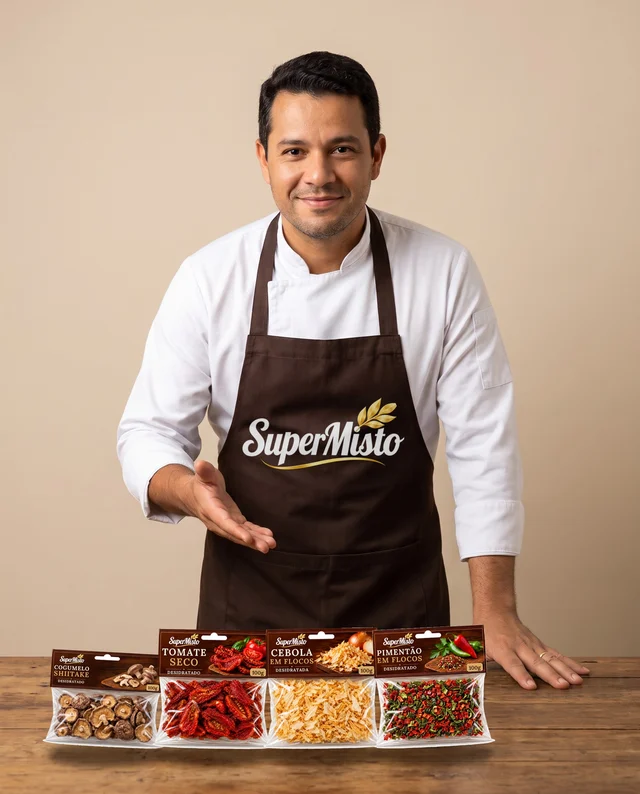
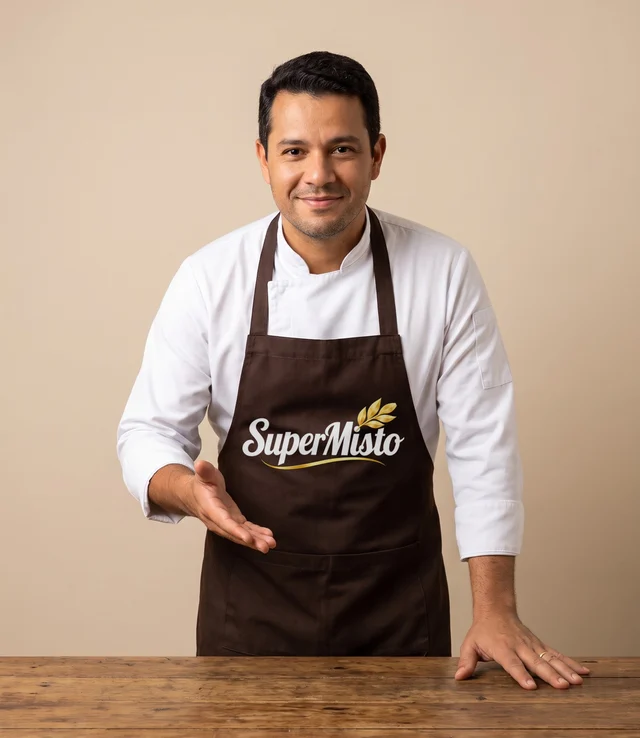
Supermisto: chef sem os pacotes na mesa
Claude-Session: https://claude.ai/code/session_015ccz1f9mAXaDEEyUCv6yYh

diff --git a/SITE-SUPERMISTO/site.js b/SITE-SUPERMISTO/site.js
@@ -44,7 +44,7 @@ function tamFoto(p) {
   return todos.filter((t, i) => (i === 0 && p.foto) || f[t]).sort((x, y) => ordemTam(x) - ordemTam(y));
 }
 function fotoUrl(p, peso) {
-  if (FOTOS_PESO[p.id]) return `img/produtos/${p.id}-${peso.replace(' ', '')}.webp?v=91`;
+  if (FOTOS_PESO[p.id]) return `img/produtos/${p.id}-${peso.replace(' ', '')}.webp?v=92`;
   const todos = p.tamAll || p.tam || [];
   return (p.fotosPeso && p.fotosPeso[peso]) || (peso === todos[0] ? p.foto : '') || p.foto;
 }
@@ -54,8 +54,8 @@ const CAPAS_LINHA = ['chas', 'puros', 'inteiros', 'misturas', 'desidratados'];
 // foto do quadradinho e capa larga de cada linha: a enviada pelo app (Meu site) vale mais que a do site
 const NOME_IMG = (id) => (id === 'desidratados' ? 'cogumelos-linha' : id);
 const EXT_IMG = (id) => (id === 'desidratados' ? 'jpg' : 'webp');
-const fotoLinha = (l) => l.foto || (FOTOS_LINHA.includes(l.id) ? `img/linhas/${NOME_IMG(l.id)}.${EXT_IMG(l.id)}?v=91` : '');
-const capaLinha = (l) => l.capa || (CAPAS_LINHA.includes(l.id) ? `img/linhas/${NOME_IMG(l.id)}-capa.${EXT_IMG(l.id)}?v=91` : '');
+const fotoLinha = (l) => l.foto || (FOTOS_LINHA.includes(l.id) ? `img/linhas/${NOME_IMG(l.id)}.${EXT_IMG(l.id)}?v=92` : '');
+const capaLinha = (l) => l.capa || (CAPAS_LINHA.includes(l.id) ? `img/linhas/${NOME_IMG(l.id)}-capa.${EXT_IMG(l.id)}?v=92` : '');
 const slug = (n) => n.toLowerCase().normalize('NFD').replace(/[\u0300-\u036f]/g, '').replace(/[^a-z0-9]+/g, '-').replace(/^-|-$/g, '');
 // cada produto tem um id fixo (o slug do nome original): o nome pode ser trocado pelo app sem perder a foto
 PRODUTOS.forEach((p) => { p.id = p.id || slug(p.nome); });
@@ -163,7 +163,7 @@ function inicio() {
   const pegar = (nome) => PRODUTOS.find((p) => p.nome === nome);
   // produtos com foto real entram como recorte (sem fundo); os outros com a embalagem desenhada
   const vit = (n) => FOTOS.has(slug(n)) ? `<img src="img/produtos/${slug(n)}-recorte.png" alt="${n} Supermisto">` : embalagem(pegar(n), pegar(n).tam[1] || pegar(n).tam[0]);
-  $('#vitrine').innerHTML = '<img class="chef" src="img/chef-supermisto.webp?v=91" srcset="img/chef-supermisto-640.webp?v=91 640w, img/chef-supermisto.webp?v=91 1000w" sizes="(max-width:860px) 92vw, 460px" width="1000" height="1241" alt="Chef Supermisto apresentando os temperos desidratados">';
+  $('#vitrine').innerHTML = '<img class="chef" src="img/chef-supermisto.webp?v=92" srcset="img/chef-supermisto-640.webp?v=92 640w, img/chef-supermisto.webp?v=92 1000w" sizes="(max-width:860px) 92vw, 460px" width="1000" height="1159" alt="Chef Supermisto apresentando os temperos desidratados">';
   // só aparecem as linhas que já têm produto com foto (as outras entram quando a arte chegar)
   const linhasOk = LINHAS.filter((l) => PRODUTOS.some((p) => p.linha === l.id && temFoto(p)));
   $('#num-prod').textContent = PRODUTOS.filter(temFoto).length; $('#num-linhas').textContent = linhasOk.length;

diff --git a/SITE-SUPERMISTO/404.html b/SITE-SUPERMISTO/404.html
@@ -13,14 +13,14 @@
 <link rel="icon" href="img/icone-192.png">
 <link rel="preconnect" href="https://fonts.googleapis.com">
 <link href="https://fonts.googleapis.com/css2?family=Inter:wght@400;500;600;700&family=Poppins:ital,wght@0,600;0,700;0,800;1,800&display=swap" rel="stylesheet">
-<link rel="stylesheet" href="estilo.css?v=91">
+<link rel="stylesheet" href="estilo.css?v=92">
 <script type="application/ld+json">{"@context":"https://schema.org","@type":"Organization","name":"Supermisto Temperos","legalName":"SUPER MISTO TEMPEROS LTDA","taxID":"13.580.397/0001-80","url":"https://www.supermistotemperos.com.br/","logo":"https://www.supermistotemperos.com.br/img/logo-supermisto.png","email":"contato@supermistotemperos.com.br","telephone":"+55-24-99872-1557","address":{"@type":"PostalAddress","streetAddress":"Estrada de Xerém, 484","addressLocality":"Duque de Caxias","addressRegion":"RJ","postalCode":"25241-390","addressCountry":"BR"}}</script>
 </head>
 <body>
 
 <header class="topo" id="topo">
   <div class="caixa topo-in">
-    <a href="index.html" class="marca" aria-label="Supermisto Temperos, início"><img src="img/logo-supermisto.png?v=91" alt="Supermisto Temperos" width="1029" height="507"></a>
+    <a href="index.html" class="marca" aria-label="Supermisto Temperos, início"><img src="img/logo-supermisto.png?v=92" alt="Supermisto Temperos" width="1029" height="507"></a>
     <nav class="menu" id="menu">
       <a href="catalogo.html">Produtos</a>
       <a href="receitas.html">Receitas</a>
@@ -35,7 +35,7 @@
 
 <main>
 <a class="banner-topo" href="catalogo.html" aria-label="Ver os temperos Supermisto">
-  <img src="img/banner-larga.webp?v=91" srcset="img/banner-larga-960.webp?v=91 960w, img/banner-larga-1280.webp?v=91 1280w, img/banner-larga.webp?v=91 1920w" sizes="100vw" width="1920" height="720" alt="Supermisto: sabor e qualidade em cada receita. Molhos de pimenta, shoyu e alho, temperos e doces Supermisto." fetchpriority="high">
+  <img src="img/banner-larga.webp?v=92" srcset="img/banner-larga-960.webp?v=92 960w, img/banner-larga-1280.webp?v=92 1280w, img/banner-larga.webp?v=92 1920w" sizes="100vw" width="1920" height="720" alt="Supermisto: sabor e qualidade em cada receita. Molhos de pimenta, shoyu e alho, temperos e doces Supermisto." fetchpriority="high">
 </a>
 <section class="hero" id="inicio">
   
@@ -159,8 +159,8 @@
 <footer class="rodape" id="rodape"></footer>
 <a class="whats-flutua" data-whats="Olá! Vim pelo site da Supermisto." aria-label="WhatsApp"></a>
 
-<script src="produtos.js?v=91"></script>
-<script src="receitas.js?v=91"></script>
-<script src="site.js?v=91"></script>
+<script src="produtos.js?v=92"></script>
+<script src="receitas.js?v=92"></script>
+<script src="site.js?v=92"></script>
 </body>
 </html>

diff --git a/SITE-SUPERMISTO/index.html b/SITE-SUPERMISTO/index.html
@@ -13,14 +13,14 @@
 <link rel="icon" href="img/icone-192.png">
 <link rel="preconnect" href="https://fonts.googleapis.com">
 <link href="https://fonts.googleapis.com/css2?family=Inter:wght@400;500;600;700&family=Poppins:ital,wght@0,600;0,700;0,800;1,800&display=swap" rel="stylesheet">
-<link rel="stylesheet" href="estilo.css?v=91">
+<link rel="stylesheet" href="estilo.css?v=92">
 <script type="application/ld+json">{"@context":"https://schema.org","@type":"Organization","name":"Supermisto Temperos","legalName":"SUPER MISTO TEMPEROS LTDA","taxID":"13.580.397/0001-80","url":"https://www.supermistotemperos.com.br/","logo":"https://www.supermistotemperos.com.br/img/logo-supermisto.png","email":"contato@supermistotemperos.com.br","telephone":"+55-24-99872-1557","address":{"@type":"PostalAddress","streetAddress":"Estrada de Xerém, 484","addressLocality":"Duque de Caxias","addressRegion":"RJ","postalCode":"25241-390","addressCountry":"BR"}}</script>
 </head>
 <body>
 
 <header class="topo" id="topo">
   <div class="caixa topo-in">
-    <a href="index.html" class="marca" aria-label="Supermisto Temperos, início"><img src="img/logo-supermisto.png?v=91" alt="Supermisto Temperos" width="1029" height="507"></a>
+    <a href="index.html" class="marca" aria-label="Supermisto Temperos, início"><img src="img/logo-supermisto.png?v=92" alt="Supermisto Temperos" width="1029" height="507"></a>
     <nav class="menu" id="menu">
       <a href="catalogo.html">Produtos</a>
       <a href="receitas.html">Receitas</a>
@@ -35,7 +35,7 @@
 
 <main>
 <a class="banner-topo" href="catalogo.html" aria-label="Ver os temperos Supermisto">
-  <img src="img/banner-larga.webp?v=91" srcset="img/banner-larga-960.webp?v=91 960w, img/banner-larga-1280.webp?v=91 1280w, img/banner-larga.webp?v=91 1920w" sizes="100vw" width="1920" height="720" alt="Supermisto: sabor e qualidade em cada receita. Molhos de pimenta, shoyu e alho, temperos e doces Supermisto." fetchpriority="high">
+  <img src="img/banner-larga.webp?v=92" srcset="img/banner-larga-960.webp?v=92 960w, img/banner-larga-1280.webp?v=92 1280w, img/banner-larga.webp?v=92 1920w" sizes="100vw" width="1920" height="720" alt="Supermisto: sabor e qualidade em cada receita. Molhos de pimenta, shoyu e alho, temperos e doces Supermisto." fetchpriority="high">
 </a>
 <section class="hero" id="inicio">
   
@@ -159,8 +159,8 @@
 <footer class="rodape" id="rodape"></footer>
 <a class="whats-flutua" data-whats="Olá! Vim pelo site da Supermisto." aria-label="WhatsApp"></a>
 
-<script src="produtos.js?v=91"></script>
-<script src="receitas.js?v=91"></script>
-<script src="site.js?v=91"></script>
+<script src="produtos.js?v=92"></script>
+<script src="receitas.js?v=92"></script>
+<script src="site.js?v=92"></script>
 </body>
 </html>

diff --git a/SITE-SUPERMISTO/catalogo.html b/SITE-SUPERMISTO/catalogo.html
@@ -10,12 +10,12 @@
 <link rel="icon" href="img/icone-192.png">
 <link rel="preconnect" href="https://fonts.googleapis.com">
 <link href="https://fonts.googleapis.com/css2?family=Inter:wght@400;500;600;700&family=Poppins:ital,wght@0,600;0,700;0,800;1,800&display=swap" rel="stylesheet">
-<link rel="stylesheet" href="estilo.css?v=91">
+<link rel="stylesheet" href="estilo.css?v=92">
 </head>
 <body>
 <header class="topo" id="topo">
   <div class="caixa topo-in">
-    <a href="index.html" class="marca" aria-label="Supermisto Temperos, início"><img src="img/logo-supermisto.png?v=91" alt="Supermisto Temperos" width="1029" height="507"></a>
+    <a href="index.html" class="marca" aria-label="Supermisto Temperos, início"><img src="img/logo-supermisto.png?v=92" alt="Supermisto Temperos" width="1029" height="507"></a>
     <nav class="menu" id="menu">
       <a href="index.html">Início</a>
       <a href="catalogo.html" class="atual">Produtos</a>
@@ -53,8 +53,8 @@
 <footer class="rodape" id="rodape"></footer>
 <a class="whats-flutua" data-whats="Olá! Vim pelo catálogo da Supermisto." aria-label="WhatsApp"></a>
 
-<script src="produtos.js?v=91"></script>
-<script src="receitas.js?v=91"></script>
-<script src="site.js?v=91"></script>
+<script src="produtos.js?v=92"></script>
+<script src="receitas.js?v=92"></script>
+<script src="site.js?v=92"></script>
 </body>
 </html>

diff --git a/SITE-SUPERMISTO/linha.html b/SITE-SUPERMISTO/linha.html
@@ -10,12 +10,12 @@
 <link rel="icon" href="img/icone-192.png">
 <link rel="preconnect" href="https://fonts.googleapis.com">
 <link href="https://fonts.googleapis.com/css2?family=Inter:wght@400;500;600;700&family=Poppins:ital,wght@0,600;0,700;0,800;1,800&display=swap" rel="stylesheet">
-<link rel="stylesheet" href="estilo.css?v=91">
+<link rel="stylesheet" href="estilo.css?v=92">
 </head>
 <body>
 <header class="topo" id="topo">
   <div class="caixa topo-in">
-    <a href="index.html" class="marca" aria-label="Supermisto Temperos, início"><img src="img/logo-supermisto.png?v=91" alt="Supermisto Temperos" width="1029" height="507"></a>
+    <a href="index.html" class="marca" aria-label="Supermisto Temperos, início"><img src="img/logo-supermisto.png?v=92" alt="Supermisto Temperos" width="1029" height="507"></a>
     <nav class="menu" id="menu">
       <a href="index.html">Início</a>
       <a href="catalogo.html" class="atual">Produtos</a>
@@ -46,8 +46,8 @@
 <footer class="rodape" id="rodape"></footer>
 <a class="whats-flutua" data-whats="Olá! Vim pelo site da Supermisto." aria-label="WhatsApp"></a>
 
-<script src="produtos.js?v=91"></script>
-<script src="receitas.js?v=91"></script>
-<script src="site.js?v=91"></script>
+<script src="produtos.js?v=92"></script>
+<script src="receitas.js?v=92"></script>
+<script src="site.js?v=92"></script>
 </body>
 </html>

diff --git a/SITE-SUPERMISTO/produto.html b/SITE-SUPERMISTO/produto.html
@@ -10,12 +10,12 @@
 <link rel="icon" href="img/icone-192.png">
 <link rel="preconnect" href="https://fonts.googleapis.com">
 <link href="https://fonts.googleapis.com/css2?family=Inter:wght@400;500;600;700&family=Poppins:ital,wght@0,600;0,700;0,800;1,800&display=swap" rel="stylesheet">
-<link rel="stylesheet" href="estilo.css?v=91">
+<link rel="stylesheet" href="estilo.css?v=92">
 </head>
 <body>
 <header class="topo" id="topo">
   <div class="caixa topo-in">
-    <a href="index.html" class="marca" aria-label="Supermisto Temperos, início"><img src="img/logo-supermisto.png?v=91" alt="Supermisto Temperos" width="1029" height="507"></a>
+    <a href="index.html" class="marca" aria-label="Supermisto Temperos, início"><img src="img/logo-supermisto.png?v=92" alt="Supermisto Temperos" width="1029" height="507"></a>
     <nav class="menu" id="menu">
       <a href="index.html">Início</a>
       <a href="catalogo.html" class="atual">Produtos</a>
@@ -36,8 +36,8 @@
 <footer class="rodape" id="rodape"></footer>
 <a class="whats-flutua" data-whats="Olá! Vim pelo site da Supermisto." aria-label="WhatsApp"></a>
 
-<script src="produtos.js?v=91"></script>
-<script src="receitas.js?v=91"></script>
-<script src="site.js?v=91"></script>
+<script src="produtos.js?v=92"></script>
+<script src="receitas.js?v=92"></script>
+<script src="site.js?v=92"></script>
 </body>
 </html>

diff --git a/SITE-SUPERMISTO/privacidade.html b/SITE-SUPERMISTO/privacidade.html
@@ -13,12 +13,12 @@
 <link rel="icon" href="img/icone-192.png">
 <link rel="preconnect" href="https://fonts.googleapis.com">
 <link href="https://fonts.googleapis.com/css2?family=Inter:wght@400;500;600;700&family=Poppins:ital,wght@0,600;0,700;0,800;1,800&display=swap" rel="stylesheet">
-<link rel="stylesheet" href="estilo.css?v=91">
+<link rel="stylesheet" href="estilo.css?v=92">
 </head>
 <body>
 <header class="topo" id="topo">
   <div class="caixa topo-in">
-    <a href="index.html" class="marca" aria-label="Supermisto Temperos, início"><img src="img/logo-supermisto.png?v=91" alt="Supermisto Temperos" width="1029" height="507"></a>
+    <a href="index.html" class="marca" aria-label="Supermisto Temperos, início"><img src="img/logo-supermisto.png?v=92" alt="Supermisto Temperos" width="1029" height="507"></a>
     <nav class="menu" id="menu">
       <a href="catalogo.html">Produtos</a>
       <a href="receitas.html">Receitas</a>
@@ -44,8 +44,8 @@
 <footer class="rodape" id="rodape"></footer>
 <a class="whats-flutua" data-whats="Olá! Vim pelo site da Supermisto." aria-label="WhatsApp"></a>
 
-<script src="produtos.js?v=91"></script>
-<script src="receitas.js?v=91"></script>
-<script src="site.js?v=91"></script>
+<script src="produtos.js?v=92"></script>
+<script src="receitas.js?v=92"></script>
+<script src="site.js?v=92"></script>
 </body>
 </html>

diff --git a/SITE-SUPERMISTO/receita.html b/SITE-SUPERMISTO/receita.html
@@ -13,12 +13,12 @@
 <link rel="icon" href="img/icone-192.png">
 <link rel="preconnect" href="https://fonts.googleapis.com">
 <link href="https://fonts.googleapis.com/css2?family=Inter:wght@400;500;600;700&family=Poppins:ital,wght@0,600;0,700;0,800;1,800&display=swap" rel="stylesheet">
-<link rel="stylesheet" href="estilo.css?v=91">
+<link rel="stylesheet" href="estilo.css?v=92">
 </head>
 <body>
 <header class="topo" id="topo">
   <div class="caixa topo-in">
-    <a href="index.html" class="marca" aria-label="Supermisto Temperos, início"><img src="img/logo-supermisto.png?v=91" alt="Supermisto Temperos" width="1029" height="507"></a>
+    <a href="index.html" class="marca" aria-label="Supermisto Temperos, início"><img src="img/logo-supermisto.png?v=92" alt="Supermisto Temperos" width="1029" height="507"></a>
     <nav class="menu" id="menu">
       <a href="catalogo.html">Produtos</a>
       <a href="receitas.html">Receitas</a>
@@ -38,8 +38,8 @@
 <footer class="rodape" id="rodape"></footer>
 <a class="whats-flutua" data-whats="Olá! Vim pelo site da Supermisto." aria-label="WhatsApp"></a>
 
-<script src="produtos.js?v=91"></script>
-<script src="receitas.js?v=91"></script>
-<script src="site.js?v=91"></script>
+<script src="produtos.js?v=92"></script>
+<script src="receitas.js?v=92"></script>
+<script src="site.js?v=92"></script>
 </body>
 </html>

diff --git a/SITE-SUPERMISTO/receitas.html b/SITE-SUPERMISTO/receitas.html
@@ -13,12 +13,12 @@
 <link rel="icon" href="img/icone-192.png">
 <link rel="preconnect" href="https://fonts.googleapis.com">
 <link href="https://fonts.googleapis.com/css2?family=Inter:wght@400;500;600;700&family=Poppins:ital,wght@0,600;0,700;0,800;1,800&display=swap" rel="stylesheet">
-<link rel="stylesheet" href="estilo.css?v=91">
+<link rel="stylesheet" href="estilo.css?v=92">
 </head>
 <body>
 <header class="topo" id="topo">
   <div class="caixa topo-in">
-    <a href="index.html" class="marca" aria-label="Supermisto Temperos, início"><img src="img/logo-supermisto.png?v=91" alt="Supermisto Temperos" width="1029" height="507"></a>
+    <a href="index.html" class="marca" aria-label="Supermisto Temperos, início"><img src="img/logo-supermisto.png?v=92" alt="Supermisto Temperos" width="1029" height="507"></a>
     <nav class="menu" id="menu">
       <a href="catalogo.html">Produtos</a>
       <a href="receitas.html">Receitas</a>
@@ -38,8 +38,8 @@
 <footer class="rodape" id="rodape"></footer>
 <a class="whats-flutua" data-whats="Olá! Vim pelo site da Supermisto." aria-label="WhatsApp"></a>
 
-<script src="produtos.js?v=91"></script>
-<script src="receitas.js?v=91"></script>
-<script src="site.js?v=91"></script>
+<script src="produtos.js?v=92"></script>
+<script src="receitas.js?v=92"></script>
+<script src="site.js?v=92"></script>
 </body>
 </html>

diff --git a/SITE-SUPERMISTO/revenda.html b/SITE-SUPERMISTO/revenda.html
@@ -10,12 +10,12 @@
 <link rel="icon" href="img/icone-192.png">
 <link rel="preconnect" href="https://fonts.googleapis.com">
 <link href="https://fonts.googleapis.com/css2?family=Inter:wght@400;500;600;700&family=Poppins:ital,wght@0,600;0,700;0,800;1,800&display=swap" rel="stylesheet">
-<link rel="stylesheet" href="estilo.css?v=91">
+<link rel="stylesheet" href="estilo.css?v=92">
 </head>
 <body>
 <header class="topo" id="topo">
   <div class="caixa topo-in">
-    <a href="index.html" class="marca" aria-label="Supermisto Temperos, início"><img src="img/logo-supermisto.png?v=91" alt="Supermisto Temperos" width="1029" height="507"></a>
+    <a href="index.html" class="marca" aria-label="Supermisto Temperos, início"><img src="img/logo-supermisto.png?v=92" alt="Supermisto Temperos" width="1029" height="507"></a>
     <nav class="menu" id="menu">
       <a href="index.html">Início</a>
       <a href="catalogo.html">Produtos</a>
@@ -97,8 +97,8 @@
 <footer class="rodape" id="rodape"></footer>
 <a class="whats-flutua" data-whats="Olá! Vim pelo site da Supermisto." aria-label="WhatsApp"></a>
 
-<script src="produtos.js?v=91"></script>
-<script src="receitas.js?v=91"></script>
-<script src="site.js?v=91"></script>
+<script src="produtos.js?v=92"></script>
+<script src="receitas.js?v=92"></script>
+<script src="site.js?v=92"></script>
 </body>
 </html>
